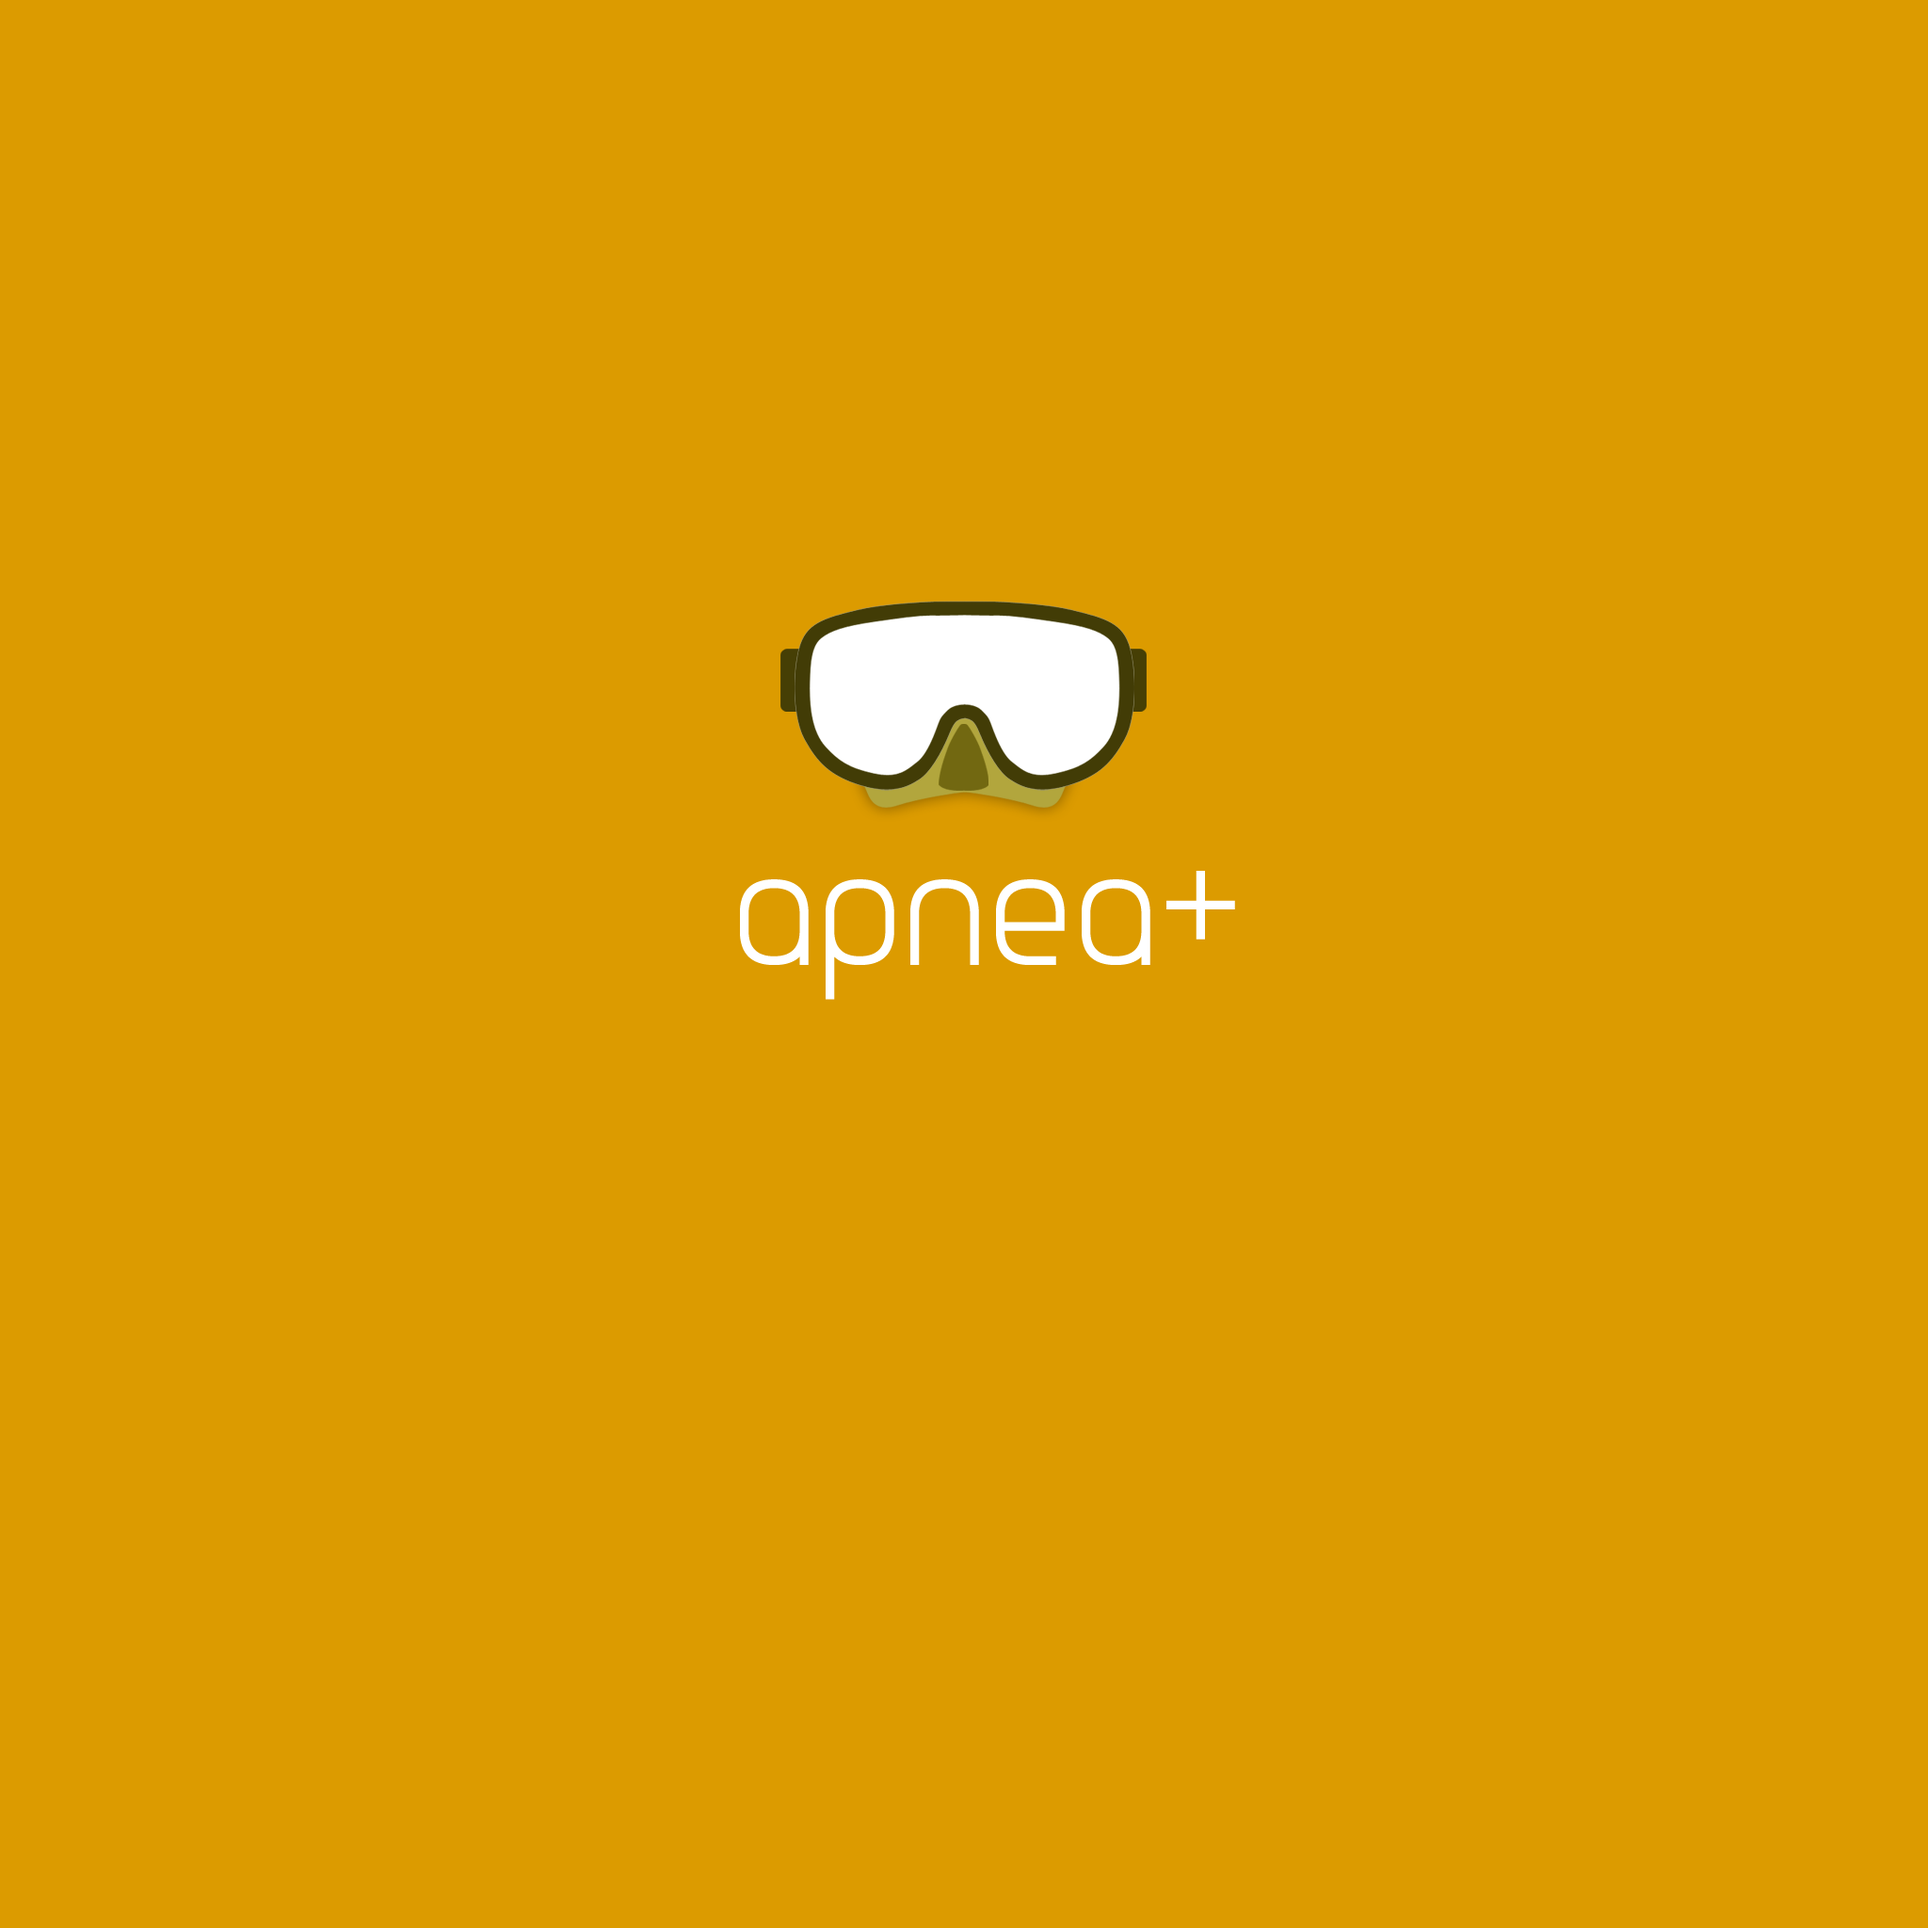
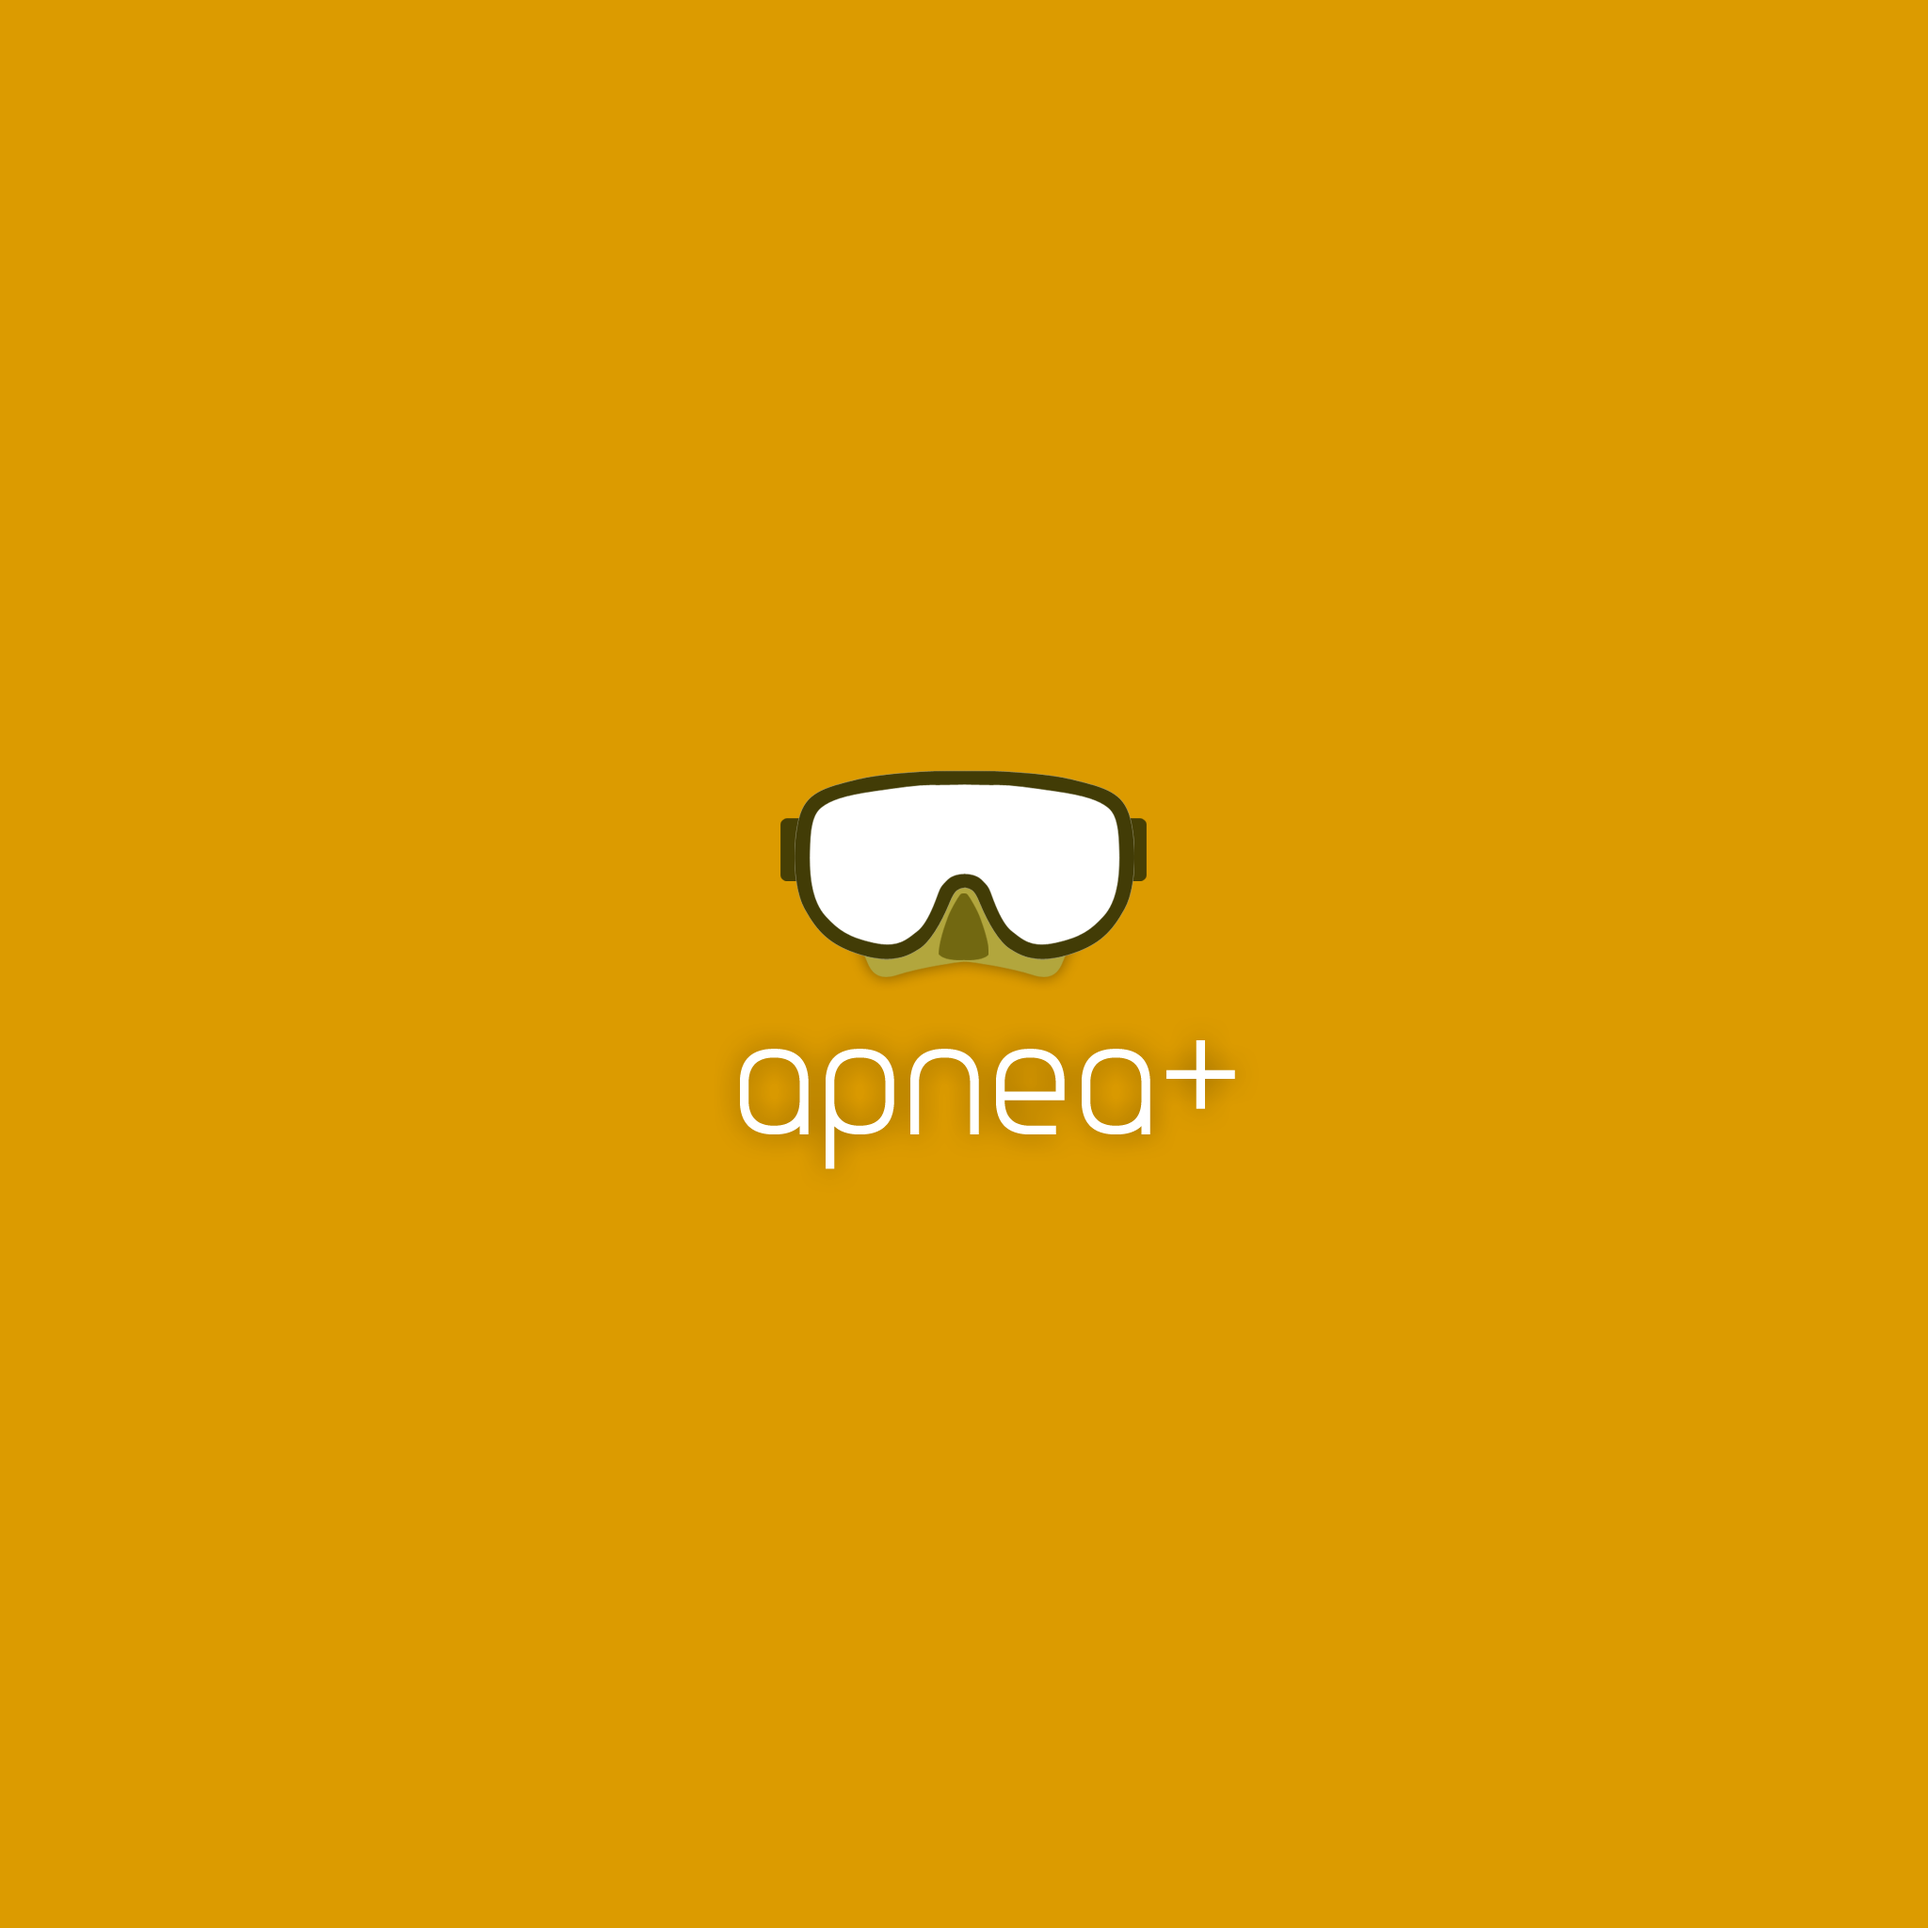
Add files via upload

Changed region(s): [[0.375, 0.3125, 0.6562, 0.5938]]

diff --git a/README.md b/README.md
@@ -1,8 +1,9 @@
 # Apnea Plus
 
-A PhoneGap Hello World template
+A true freediver training app
 
 ## USAGE
 To help Freediver to reach certain ability
 
 1.1.2 Add Splashscreen
+1.1.3 Recenter Splashscreen
